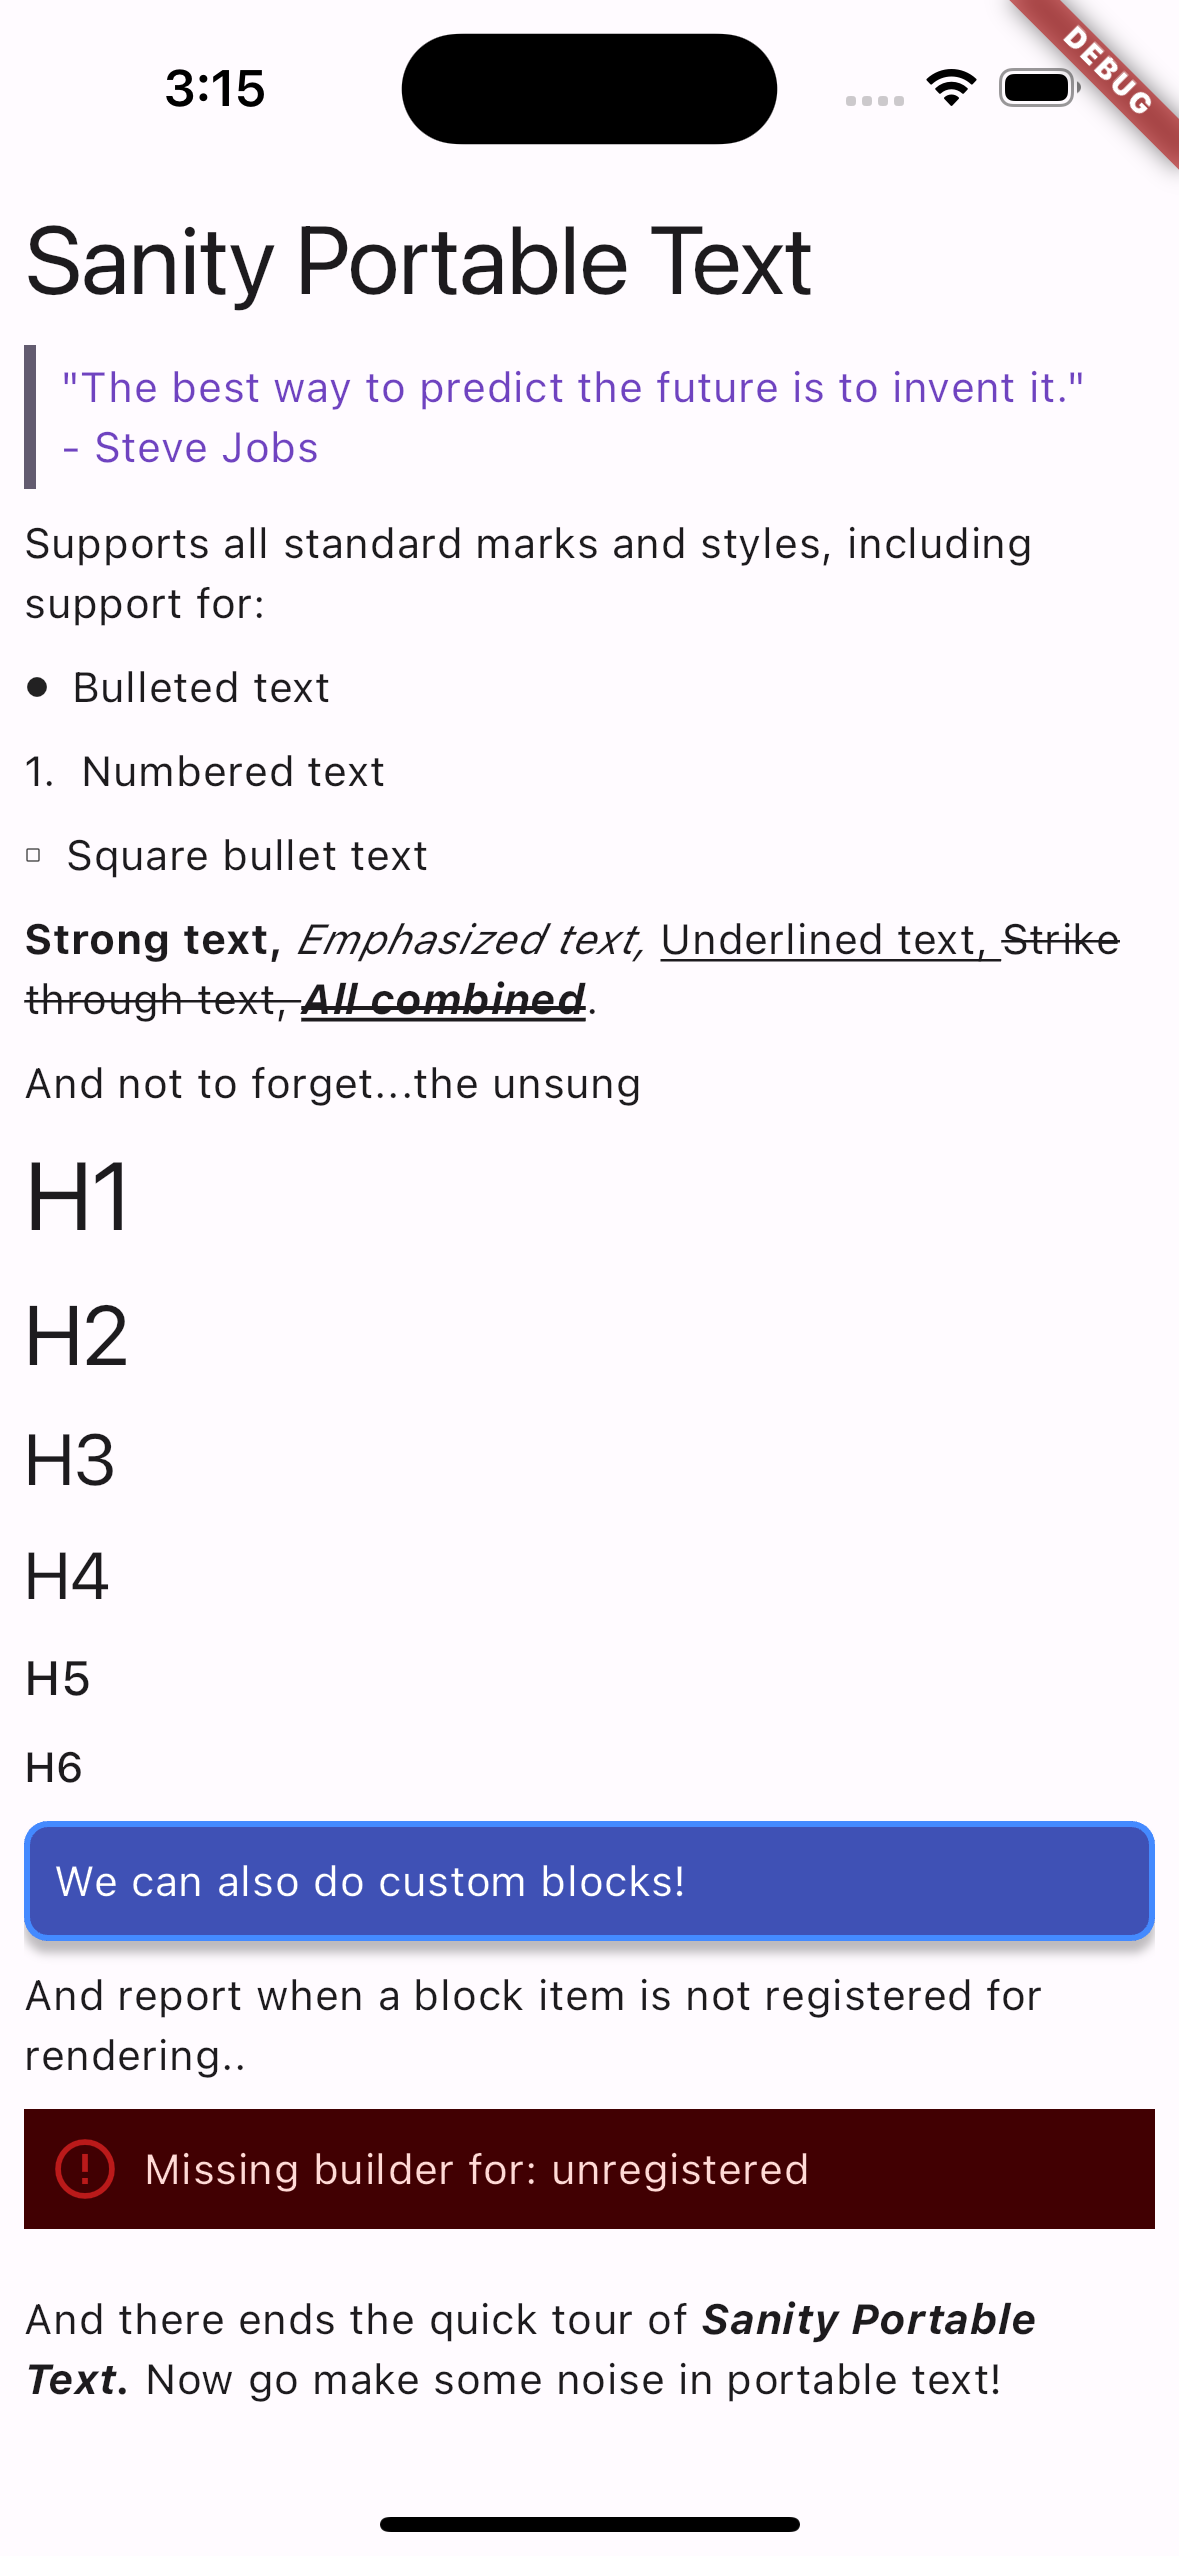
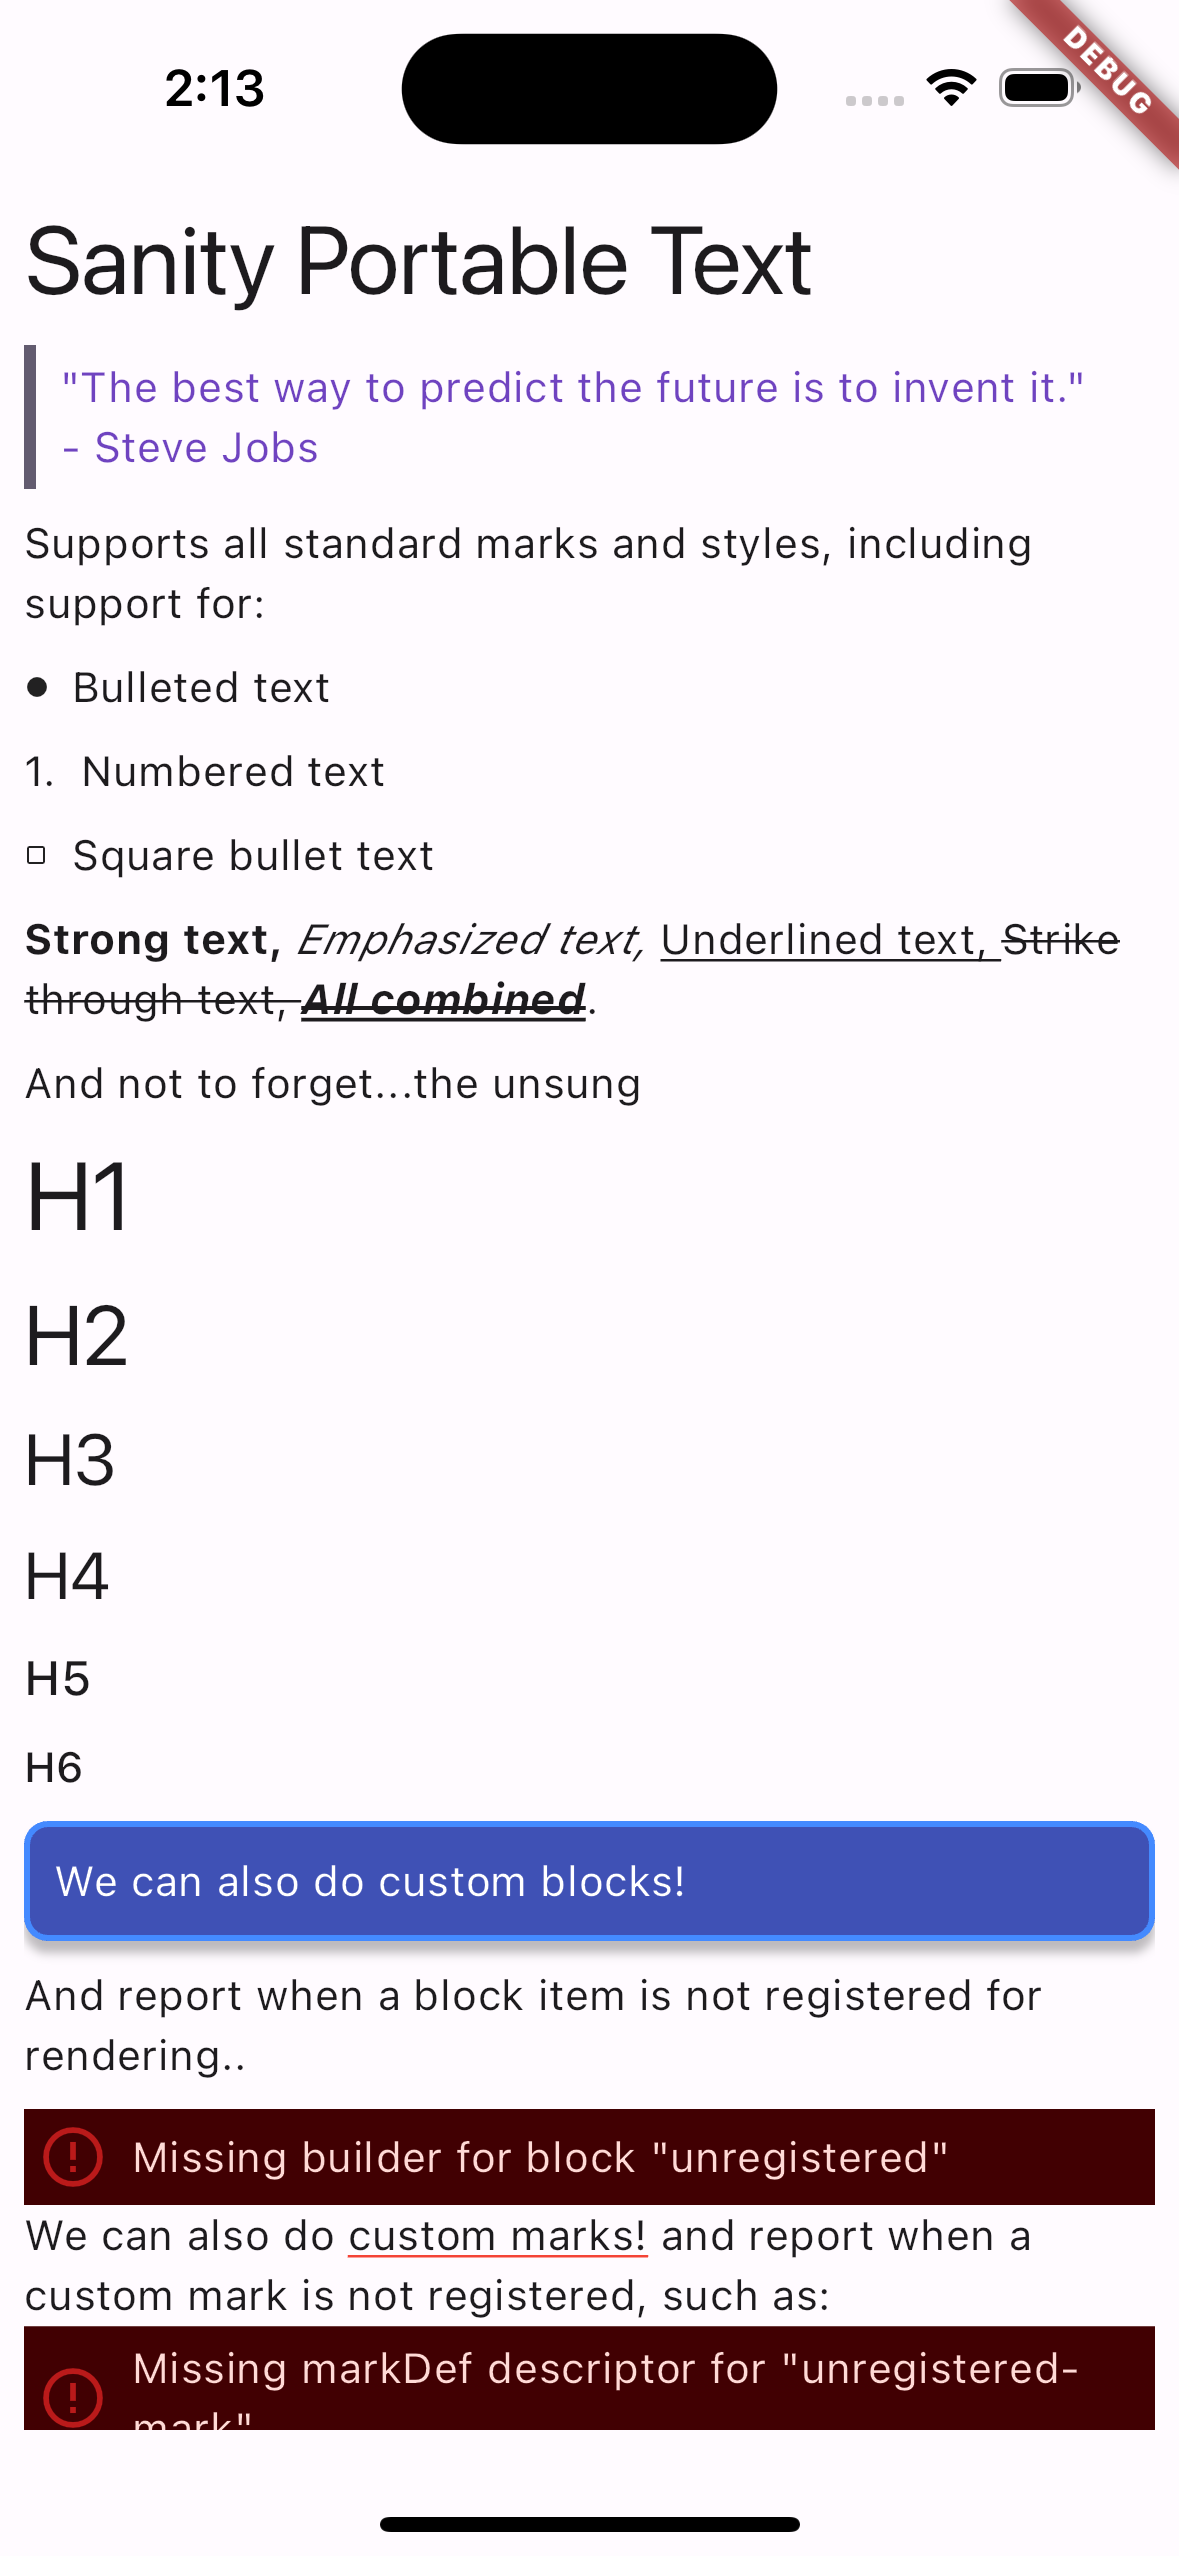
feat: refactored portable text to be more resilient

Changed region(s): [[0.0, 0.8345, 0.9771, 0.9581], [0.0611, 0.3091, 0.3664, 0.34]]

diff --git a/packages/sanity/flutter_sanity_portable_text/example/lib/main.dart b/packages/sanity/flutter_sanity_portable_text/example/lib/main.dart
@@ -21,8 +21,59 @@ final class CustomBlockItem implements PortableBlockItem {
   final Color backgroundColor;
 }
 
+final class CustomMarkDef implements MarkDef {
+  CustomMarkDef({
+    required this.color,
+    required this.key,
+  });
+
+  @override
+  final String key;
+
+  final Color color;
+
+  @override
+  String get type => 'custom-mark';
+}
+
+final class UnregisteredMarkDef implements MarkDef {
+  UnregisteredMarkDef({
+    required this.key,
+  });
+
+  @override
+  final String key;
+
+  @override
+  String get type => 'unregistered-mark';
+}
+
 void main() {
   // Registering a custom block
+  _registerCustomBlock();
+  _registerCustomMark();
+
+  runApp(const MyApp());
+}
+
+void _registerCustomMark() {
+  PortableTextConfig.shared.markDefs['custom-mark'] = MarkDefDescriptor(
+    schemaType: 'custom-mark',
+    styleBuilder: (context, markDef, textStyle) {
+      final mark = markDef as CustomMarkDef;
+
+      final style = textStyle.apply(
+        decoration: TextDecoration.underline,
+        decorationColor: mark.color,
+      );
+
+      return style;
+    },
+    fromJson: (json) => CustomMarkDef(color: json['color'], key: json['key']),
+  );
+}
+
+void _registerCustomBlock() {
   PortableTextConfig.shared.blocks['custom'] = (context, item) {
     final theme = Theme.of(context);
     final custom = item as CustomBlockItem;
@@ -46,8 +97,6 @@ void main() {
       child: Text(custom.text, style: style),
     );
   };
-
-  runApp(const MyApp());
 }
 
 class MyApp extends StatelessWidget {
@@ -126,6 +175,22 @@ class MyApp extends StatelessWidget {
                 _textBlock(
                     ('And report when a block item is not registered for rendering..')),
                 UnregisteredBlockItem(),
+                TextBlockItem(
+                  children: [
+                    Span(
+                      text: 'We can also do ',
+                    ),
+                    Span(text: 'custom marks!', marks: ['custom-key']),
+                    Span(
+                        text:
+                            ' and report when a custom mark is not registered, such as:'),
+                    Span(text: ' this.', marks: ['missing-key']),
+                  ],
+                  markDefs: [
+                    CustomMarkDef(color: Colors.red, key: 'custom-key'),
+                    UnregisteredMarkDef(key: 'missing-key')
+                  ],
+                ),
                 TextBlockItem(children: [
                   Span(text: '\nAnd there ends the quick tour of '),
                   Span(text: 'Sanity Portable Text. ', marks: ['strong', 'em']),

diff --git a/packages/sanity/flutter_sanity_portable_text/lib/ui/portable_text_block.dart b/packages/sanity/flutter_sanity_portable_text/lib/ui/portable_text_block.dart
@@ -80,29 +80,42 @@ class PortableTextBlock extends StatelessWidget {
     }
 
     GestureRecognizer? recognizer;
+    int totalRecognizers = 0;
+    String? errorText;
 
     for (final markDef in pendingMarkDefs) {
       final descriptor = config.markDefs[markDef.type];
       if (descriptor == null) {
-        debugPrint('Missing descriptor for markDef: ${markDef.type}');
+        errorText = 'Missing markDef descriptor for "${markDef.type}"';
         continue;
       }
 
-      style = descriptor.styleBuilder?.call(markDef, context, style) ?? style;
+      style = descriptor.styleBuilder?.call(context, markDef, style) ?? style;
 
-      final currentRecognizer =
-          descriptor.recognizerBuilder?.call(markDef, context);
-      assert(recognizer == null && currentRecognizer != null,
-          'There can only be one recognizer for a set of MarkDefs. We found more than one.');
+      recognizer = descriptor.recognizerBuilder?.call(context, markDef);
 
-      recognizer = currentRecognizer;
+      if (recognizer != null) {
+        totalRecognizers++;
+
+        if (totalRecognizers > 1) {
+          errorText =
+              'There can only be one recognizer for a set of MarkDefs. We found more than one.';
+        }
+      }
     }
 
-    return TextSpan(
-      text: span.text,
-      recognizer: recognizer,
-      style: style,
-    );
+    return errorText != null
+        ? WidgetSpan(
+            child: ErrorView(
+              message: errorText,
+              asBlock: false,
+            ),
+          )
+        : TextSpan(
+            text: span.text,
+            recognizer: recognizer,
+            style: style,
+          );
   }
 
   InlineSpan _bulletMark(final BuildContext context) {
@@ -128,7 +141,7 @@ class PortableTextBlock extends StatelessWidget {
           alignment: PlaceholderAlignment.middle,
           child: const Padding(
             padding: EdgeInsets.only(right: 8.0),
-            child: Icon(Icons.check_box_outline_blank, size: 6),
+            child: Icon(Icons.check_box_outline_blank, size: 8),
           ),
           style: textStyle,
         );

diff --git a/packages/sanity/flutter_sanity_portable_text/lib/ui/portable_text_config.dart b/packages/sanity/flutter_sanity_portable_text/lib/ui/portable_text_config.dart
@@ -201,3 +201,40 @@ class PortableTextConfig {
         ),
   };
 }
+
+/// Renders an error message when a block type is missing a builder or when a mark is misconfigured.
+class ErrorView extends StatelessWidget {
+  final String message;
+  final bool asBlock;
+
+  const ErrorView({
+    super.key,
+    required this.message,
+    this.asBlock = true,
+  });
+
+  @override
+  Widget build(BuildContext context) {
+    final theme = Theme.of(context);
+
+    return Container(
+        color: theme.colorScheme.onErrorContainer,
+        padding: const EdgeInsets.all(4),
+        child: Row(
+          mainAxisSize: asBlock ? MainAxisSize.max : MainAxisSize.min,
+          mainAxisAlignment: MainAxisAlignment.start,
+          crossAxisAlignment: CrossAxisAlignment.center,
+          children: [
+            Icon(Icons.error_outline, color: theme.colorScheme.error),
+            const SizedBox(width: 8),
+            Expanded(
+              child: Text(
+                message,
+                style: theme.textTheme.bodyMedium
+                    ?.apply(color: theme.colorScheme.errorContainer),
+              ),
+            ),
+          ],
+        ));
+  }
+}

diff --git a/packages/sanity/flutter_sanity_portable_text/lib/ui/portable_text_widget.dart b/packages/sanity/flutter_sanity_portable_text/lib/ui/portable_text_widget.dart
@@ -27,8 +27,6 @@ class PortableText extends StatelessWidget {
 
   @override
   Widget build(final BuildContext context) {
-    final theme = Theme.of(context);
-
     return ListView.builder(
       primary: usePrimaryScroller,
       shrinkWrap: shrinkwrap,
@@ -40,21 +38,7 @@ class PortableText extends StatelessWidget {
 
         final builder = PortableTextConfig.shared.blocks[type];
         if (builder == null) {
-          return Container(
-            color: theme.colorScheme.onErrorContainer,
-            padding: const EdgeInsets.all(8),
-            child: Row(
-              children: [
-                Icon(Icons.error_outline, color: theme.colorScheme.error),
-                const SizedBox(width: 8),
-                Text(
-                  'Missing builder for: $type',
-                  style: theme.textTheme.bodyMedium
-                      ?.apply(color: theme.colorScheme.errorContainer),
-                ),
-              ],
-            ),
-          );
+          return ErrorView(message: 'Missing builder for block "$type"');
         }
 
         return builder(context, item);

diff --git a/packages/system/vyuh_feature_system/lib/feature.dart b/packages/system/vyuh_feature_system/lib/feature.dart
@@ -104,7 +104,7 @@ final feature = FeatureDescriptor(
             MarkDefDescriptor(
               schemaType: 'invokeAction',
               fromJson: InvokeActionMarkDef.fromJson,
-              styleBuilder: (def, context, style) {
+              styleBuilder: (context, def, style) {
                 final theme = Theme.of(context);
 
                 return style.copyWith(
@@ -114,7 +114,7 @@ final feature = FeatureDescriptor(
                   decoration: TextDecoration.underline,
                 );
               },
-              recognizerBuilder: (def, context) {
+              recognizerBuilder: (context, def) {
                 return TapGestureRecognizer()
                   ..onTap = () {
                     (def as InvokeActionMarkDef).action.execute(context);

diff --git a/packages/sanity/flutter_sanity_portable_text/lib/model/markdef_descriptor.dart b/packages/sanity/flutter_sanity_portable_text/lib/model/markdef_descriptor.dart
@@ -8,14 +8,14 @@ part 'markdef_descriptor.g.dart';
 
 /// Builds a [GestureRecognizer] for a given [MarkDef].
 typedef GestureRecognizerBuilder = GestureRecognizer Function(
-  MarkDef mark,
   BuildContext context,
+  MarkDef mark,
 );
 
 /// Builds a [TextStyle] for a given [MarkDef].
 typedef MarkDefTextStyleBuilder = TextStyle Function(
-  MarkDef mark,
   BuildContext context,
+  MarkDef mark,
   TextStyle base,
 );
 

diff --git a/packages/sanity/flutter_sanity_portable_text/CHANGELOG.md b/packages/sanity/flutter_sanity_portable_text/CHANGELOG.md
@@ -1,3 +1,9 @@
+## 1.0.0-beta.12
+
+- Added support to report errors for missing annotations
+- Changed signatures of the builders for mark, block and container
+- Refactored the error view to be more universally useful
+
 ## 1.0.0-beta.10 - 1.0.0-beta.11
 
 - Fixing the format for screenshots in pubspec.yaml
